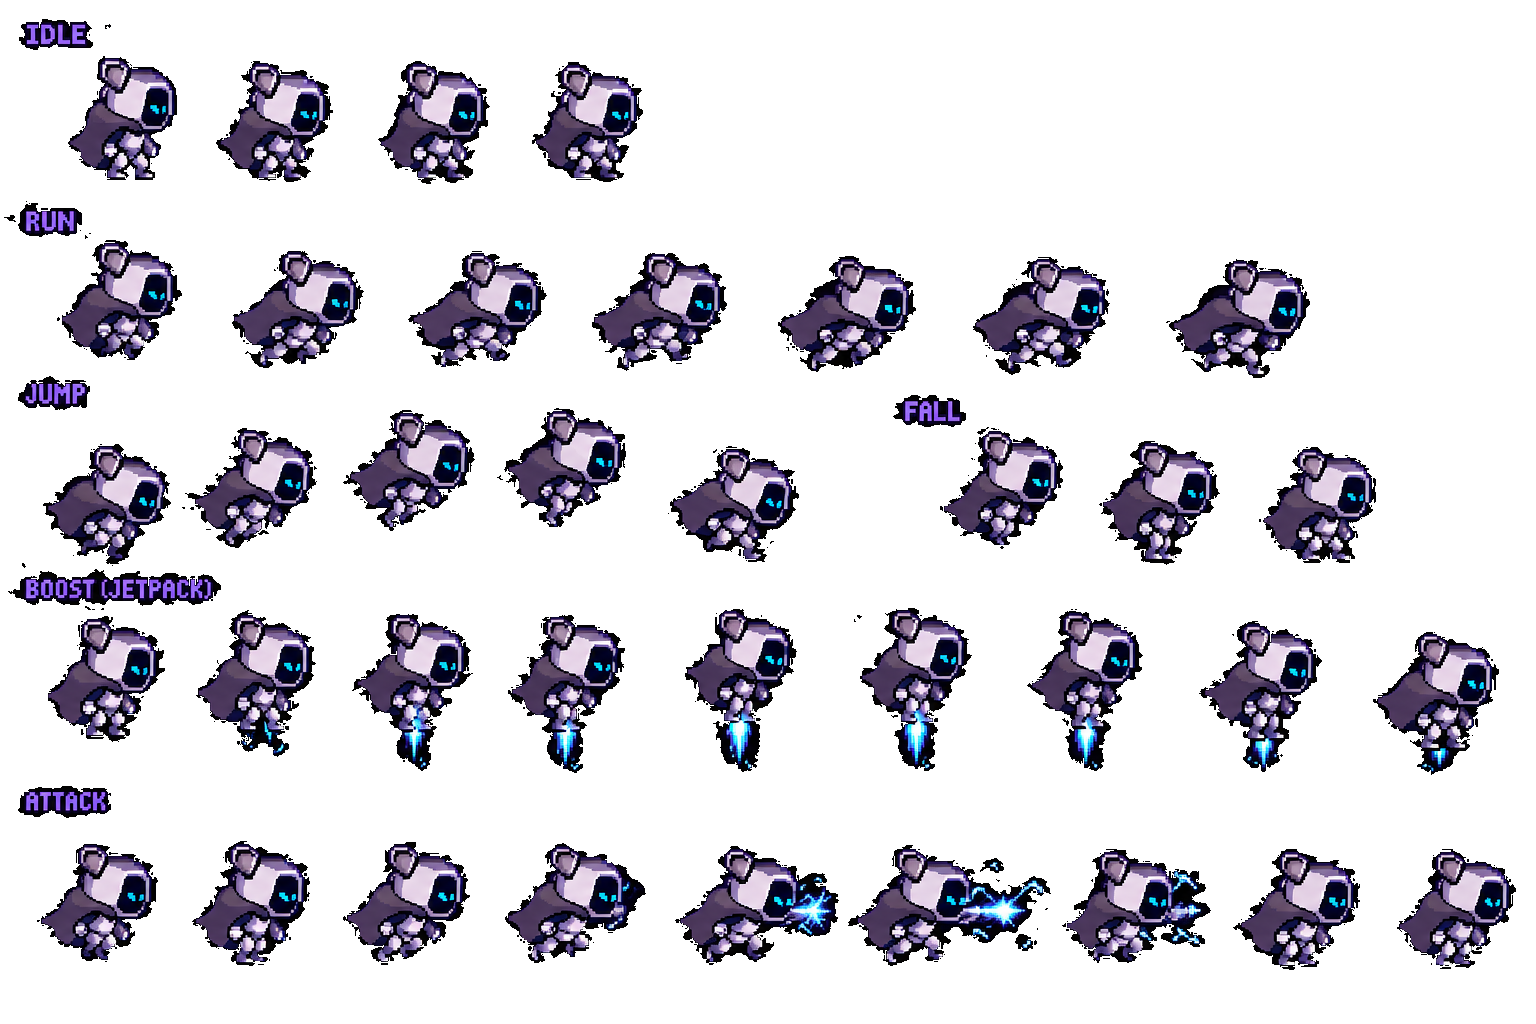
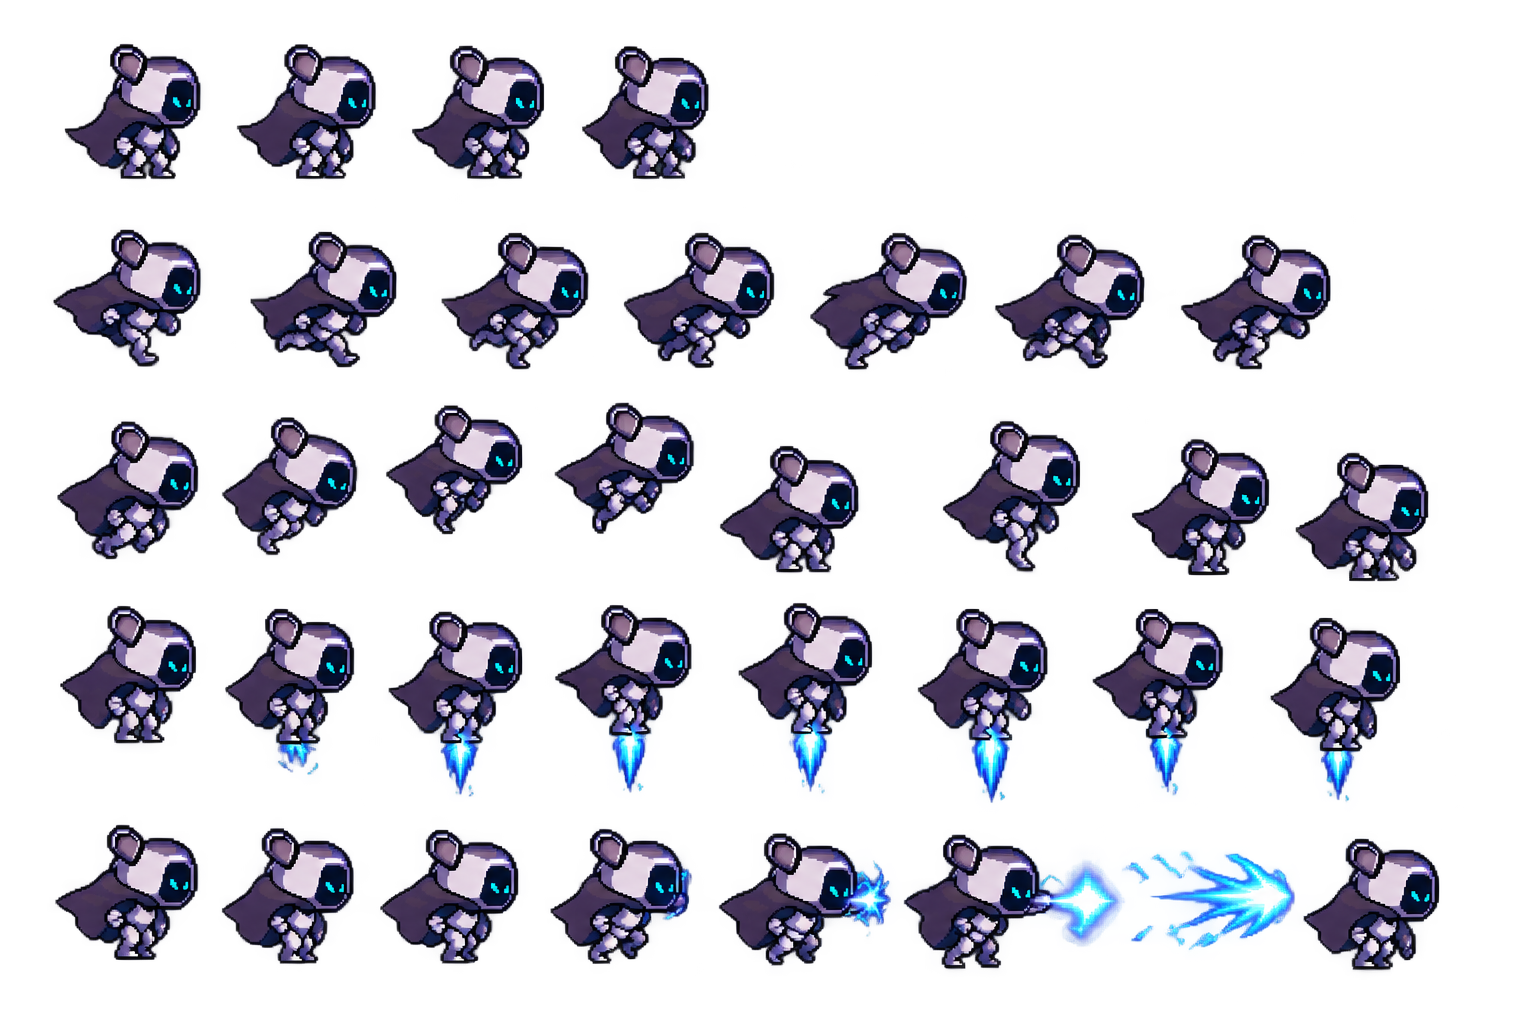
스프라이트 시트 수정

diff --git a/main.py b/main.py
@@ -3,8 +3,11 @@ from time import perf_counter
 
 from pico2d import (
     SDL_KEYDOWN,
+    SDL_KEYUP,
     SDL_QUIT,
     SDLK_ESCAPE,
+    SDLK_LEFT,
+    SDLK_RIGHT,
     clear_canvas,
     close_canvas,
     delay,
@@ -20,8 +23,21 @@ IDLE_FRAME_SIZE = 160
 IDLE_FRAME_BOTTOM = 816
 IDLE_FRAME_LEFTS = (50, 200, 360, 515)
 IDLE_FOOT_ANCHORS = (79.5, 79.5, 80.5, 80)
+IDLE_FOOT_ANCHOR_Y = 129.5
 IDLE_FRAME_DURATION = 0.18
+RUN_FRAME_WIDTH = 160
+RUN_FRAME_HEIGHT = 140
+RUN_FRAME_LEFTS = (52, 196, 378, 560, 749, 945, 1174)
+RUN_FRAME_BOTTOMS = (647, 639, 638, 637, 634, 634, 630)
+RUN_FOOT_ANCHORS = (79.5, 68.5, 65.5, 66, 66, 66.5, 84.5)
+RUN_FOOT_ANCHOR_Y = 120
+RUN_FRAME_DURATION = 0.1
 PLAYER_SIZE = 80
+PLAYER_SPEED = 300
+PLAYER_MARGIN = PLAYER_SIZE * 0.6
+PLAYER_FOOT_Y = CANVAS_HEIGHT // 2 - (
+    IDLE_FOOT_ANCHOR_Y - IDLE_FRAME_SIZE / 2
+) * PLAYER_SIZE / IDLE_FRAME_SIZE
 
 
 def main():
@@ -30,39 +46,109 @@ def main():
         sprite_sheet = load_image(
             str(Path(__file__).with_name("robot_sheet_transparent.png"))
         )
-        animation_start = perf_counter()
-        running = True
+        player_x = CANVAS_WIDTH // 2
+        left_pressed = False
+        right_pressed = False
+        facing = 1
+        was_moving = False
+        previous_time = perf_counter()
+        idle_animation_start = previous_time
+        run_animation_start = previous_time
+        game_running = True
 
-        while running:
-            frame_index = (
-                int((perf_counter() - animation_start) / IDLE_FRAME_DURATION)
-                % len(IDLE_FRAME_LEFTS)
-            )
-            frame_left = IDLE_FRAME_LEFTS[frame_index]
-            frame_x = CANVAS_WIDTH // 2 + round(
-                (IDLE_FRAME_SIZE / 2 - IDLE_FOOT_ANCHORS[frame_index])
-                * PLAYER_SIZE
-                / IDLE_FRAME_SIZE
-            )
-
-            clear_canvas()
-            sprite_sheet.clip_draw(
-                frame_left,
-                IDLE_FRAME_BOTTOM,
-                IDLE_FRAME_SIZE,
-                IDLE_FRAME_SIZE,
-                frame_x,
-                CANVAS_HEIGHT // 2,
-                PLAYER_SIZE,
-                PLAYER_SIZE,
-            )
-            update_canvas()
+        while game_running:
+            current_time = perf_counter()
+            delta_time = min(current_time - previous_time, 0.1)
+            previous_time = current_time
 
             for event in get_events():
                 if event.type == SDL_QUIT:
-                    running = False
-                elif event.type == SDL_KEYDOWN and event.key == SDLK_ESCAPE:
-                    running = False
+                    game_running = False
+                elif event.type == SDL_KEYDOWN:
+                    if event.key == SDLK_ESCAPE:
+                        game_running = False
+                    elif event.key == SDLK_LEFT:
+                        left_pressed = True
+                    elif event.key == SDLK_RIGHT:
+                        right_pressed = True
+                elif event.type == SDL_KEYUP:
+                    if event.key == SDLK_LEFT:
+                        left_pressed = False
+                    elif event.key == SDLK_RIGHT:
+                        right_pressed = False
+
+            if not game_running:
+                break
+
+            direction = int(right_pressed) - int(left_pressed)
+            if direction:
+                if not was_moving:
+                    run_animation_start = current_time
+                facing = direction
+                player_x = max(
+                    PLAYER_MARGIN,
+                    min(
+                        CANVAS_WIDTH - PLAYER_MARGIN,
+                        player_x + direction * PLAYER_SPEED * delta_time,
+                    ),
+                )
+                frame_index = (
+                    int((current_time - run_animation_start) / RUN_FRAME_DURATION)
+                    % len(RUN_FRAME_LEFTS)
+                )
+                frame_left = RUN_FRAME_LEFTS[frame_index]
+                frame_bottom = RUN_FRAME_BOTTOMS[frame_index]
+                frame_width = RUN_FRAME_WIDTH
+                frame_height = RUN_FRAME_HEIGHT
+                foot_anchor_x = RUN_FOOT_ANCHORS[frame_index]
+                foot_anchor_y = RUN_FOOT_ANCHOR_Y
+            else:
+                if was_moving:
+                    idle_animation_start = current_time
+                frame_index = (
+                    int((current_time - idle_animation_start) / IDLE_FRAME_DURATION)
+                    % len(IDLE_FRAME_LEFTS)
+                )
+                frame_left = IDLE_FRAME_LEFTS[frame_index]
+                frame_bottom = IDLE_FRAME_BOTTOM
+                frame_width = IDLE_FRAME_SIZE
+                frame_height = IDLE_FRAME_SIZE
+                foot_anchor_x = IDLE_FOOT_ANCHORS[frame_index]
+                foot_anchor_y = IDLE_FOOT_ANCHOR_Y
+
+            was_moving = direction != 0
+            visual_anchor_x = (
+                frame_width - foot_anchor_x if facing < 0 else foot_anchor_x
+            )
+            frame_x = round(
+                player_x
+                + (frame_width / 2 - visual_anchor_x)
+                * PLAYER_SIZE
+                / frame_width
+            )
+            frame_y = round(
+                PLAYER_FOOT_Y
+                + (foot_anchor_y - frame_height / 2)
+                * PLAYER_SIZE
+                / frame_width
+            )
+            frame_draw_height = round(PLAYER_SIZE * frame_height / frame_width)
+            flip = "h" if facing < 0 else ""
+
+            clear_canvas()
+            sprite_sheet.clip_composite_draw(
+                frame_left,
+                frame_bottom,
+                frame_width,
+                frame_height,
+                0,
+                flip,
+                frame_x,
+                frame_y,
+                PLAYER_SIZE,
+                frame_draw_height,
+            )
+            update_canvas()
 
             delay(1 / 60)
     finally:
